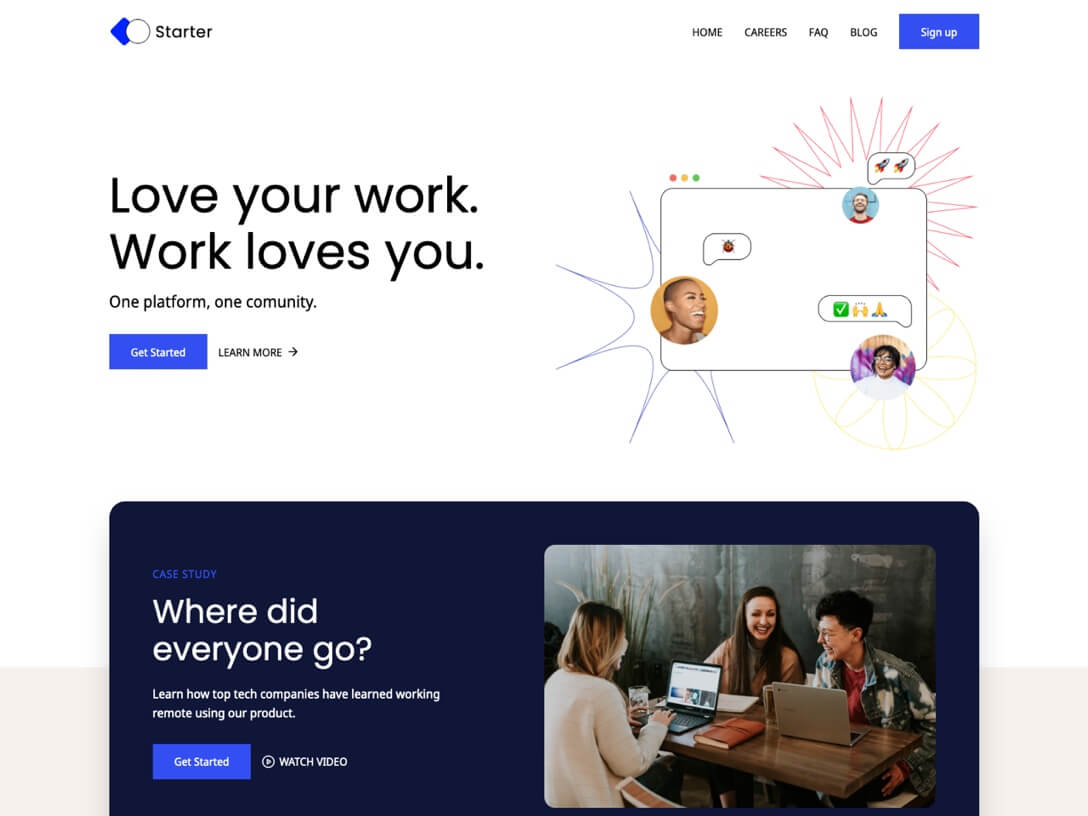
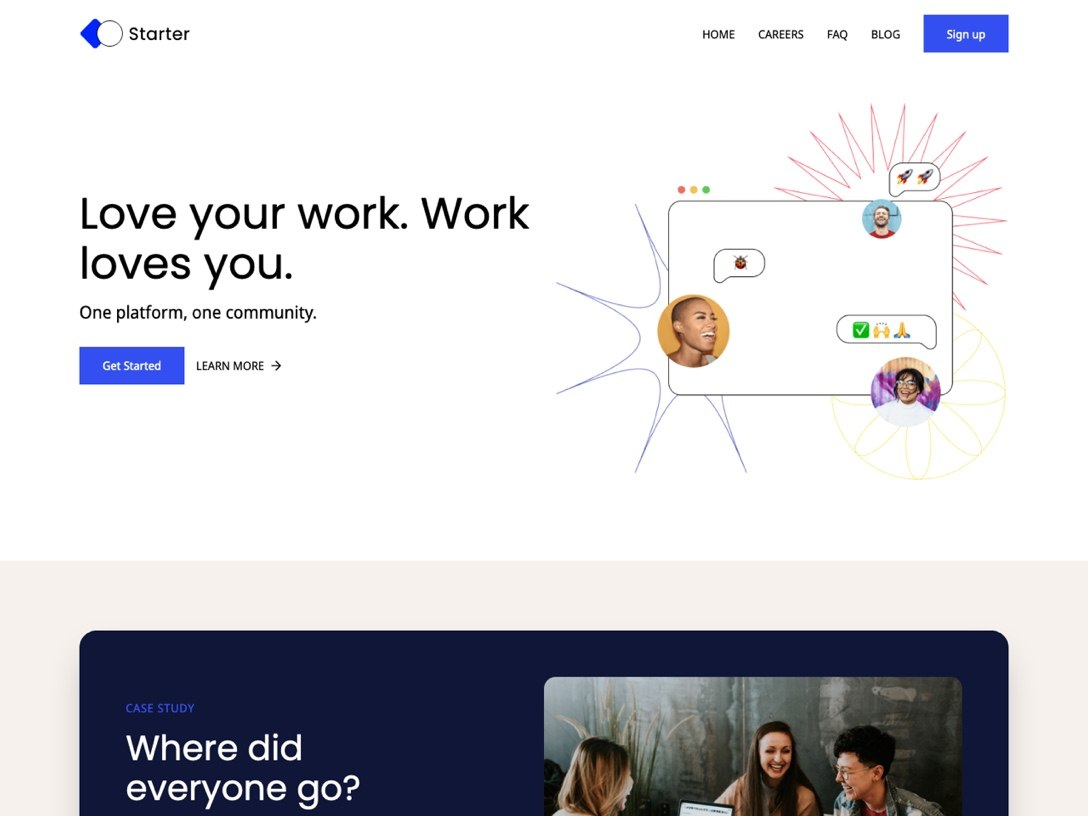
removed cssCustomClass and overlap (#17)
* removed cssCustomClass and overlap
* updated theme screenshots

diff --git a/src/components/sections/MediaGallerySection/index.tsx b/src/components/sections/MediaGallerySection/index.tsx
@@ -35,7 +35,6 @@ type MediaGalleryStyle = {
 type BaseSectionComponentProps = {
     type: string;
     elementId: string;
-    customClass: string;
     colors?: string;
     styles?: BaseSectionStyle & MediaGalleryStyle;
 };
@@ -60,7 +59,6 @@ export type MediaGallerySectionProps = BaseSectionComponentProps & {
 
 export default function MediaGallerySection(props: MediaGallerySectionProps) {
     const cssId = props.elementId || null;
-    const cssCustomClass = props.customClass || null;
     const colors = props.colors || 'colors-a';
     const sectionStyles = props.styles?.self;
     const sectionWidth = sectionStyles?.width || 'wide';
@@ -74,7 +72,6 @@ export default function MediaGallerySection(props: MediaGallerySectionProps) {
                 'sb-component',
                 'sb-component-section',
                 'sb-component-media-gallery-section',
-                cssCustomClass,
                 colors,
                 'flex',
                 'flex-col',

diff --git a/src/components/sections/FeatureHighlightSection/index.tsx b/src/components/sections/FeatureHighlightSection/index.tsx
@@ -9,7 +9,6 @@ import { Action, Badge } from '../../atoms';
 
 export default function FeatureHighlightSection(props) {
     const cssId = props.elementId || null;
-    const cssCustomClass = props.customClass || null;
     const colors = props.colors || 'colors-a';
     const bgSize = props.backgroundSize || 'full';
     const sectionStyles = props.styles?.self || {};
@@ -26,7 +25,6 @@ export default function FeatureHighlightSection(props) {
                 'sb-component',
                 'sb-component-section',
                 'sb-component-feature-highlight-section',
-                cssCustomClass,
                 bgSize === 'inset' ? 'flex': null,
                 bgSize === 'inset' ? mapStyles({ justifyContent: sectionJustifyContent }) : null,
                 sectionStyles.margin

diff --git a/src/components/sections/ContactSection/index.tsx b/src/components/sections/ContactSection/index.tsx
@@ -9,7 +9,6 @@ import FormBlock from '../../molecules/FormBlock';
 
 export default function ContactSection(props) {
     const cssId = props.elementId || null;
-    const cssCustomClass = props.customClass || null;
     const colors = props.colors || 'colors-a';
     const bgSize = props.backgroundSize || 'full';
     const sectionStyles = props.styles?.self || {};
@@ -26,7 +25,6 @@ export default function ContactSection(props) {
                 'sb-component',
                 'sb-component-section',
                 'sb-component-contact-section',
-                cssCustomClass,
                 bgSize === 'inset' ? 'flex': null,
                 bgSize === 'inset' ? mapStyles({ justifyContent: sectionJustifyContent }) : null,
                 sectionStyles.margin

diff --git a/src/components/sections/CtaSection/index.tsx b/src/components/sections/CtaSection/index.tsx
@@ -8,7 +8,6 @@ import Action from '../../atoms/Action';
 
 export default function CtaSection(props) {
     const cssId = props.elementId || null;
-    const cssCustomClass = props.customClass || null;
     const colors = props.colors || 'colors-a';
     const bgSize = props.backgroundSize || 'full';
     const sectionStyles = props.styles?.self || {};
@@ -25,7 +24,6 @@ export default function CtaSection(props) {
                 'sb-component',
                 'sb-component-section',
                 'sb-component-cta-section',
-                cssCustomClass,
                 bgSize === 'inset' ? 'flex': null,
                 bgSize === 'inset' ? mapStyles({ justifyContent: sectionJustifyContent }) : null,
                 sectionStyles.margin

diff --git a/src/components/sections/PostFeedSection/index.tsx b/src/components/sections/PostFeedSection/index.tsx
@@ -11,7 +11,6 @@ import getPageUrlPath from '../../../utils/get-page-url-path';
 
 export default function PostFeedSection(props) {
     const cssId = props.elementId || null;
-    const cssCustomClass = props.customClass || null;
     const colors = props.colors || 'colors-a';
     const sectionStyles = props.styles?.self || {};
     const sectionWidth = sectionStyles.width || 'wide';
@@ -25,7 +24,6 @@ export default function PostFeedSection(props) {
                 'sb-component',
                 'sb-component-section',
                 'sb-component-post-feed-section',
-                cssCustomClass,
                 colors,
                 'flex',
                 'flex-col',

diff --git a/src/components/sections/FeaturedPeopleSection/index.tsx b/src/components/sections/FeaturedPeopleSection/index.tsx
@@ -9,7 +9,6 @@ import ImageBlock from '../../molecules/ImageBlock';
 
 export default function FeaturedPeopleSection(props) {
     const cssId = props.elementId || null;
-    const cssCustomClass = props.customClass || null;
     const colors = props.colors || 'colors-a';
     const styles = props.styles || {};
     const sectionWidth = styles.self?.width || 'wide';
@@ -23,7 +22,6 @@ export default function FeaturedPeopleSection(props) {
                 'sb-component',
                 'sb-component-section',
                 'sb-component-featured-people-section',
-                cssCustomClass,
                 colors,
                 'flex',
                 'flex-col',

diff --git a/src/components/sections/QuoteSection/index.tsx b/src/components/sections/QuoteSection/index.tsx
@@ -7,7 +7,6 @@ import { getDataAttrs } from '../../../utils/get-data-attrs';
 
 export default function QuoteSection(props) {
     const cssId = props.elementId || null;
-    const cssCustomClass = props.customClass || null;
     const colors = props.colors || 'colors-a';
     const sectionStyles = props.styles?.self || {};
     const sectionWidth = sectionStyles.width || 'wide';
@@ -21,7 +20,6 @@ export default function QuoteSection(props) {
                 'sb-component',
                 'sb-component-section',
                 'sb-component-quote-section',
-                cssCustomClass,
                 colors,
                 'flex',
                 'flex-col',

diff --git a/src/components/sections/TextSection/index.tsx b/src/components/sections/TextSection/index.tsx
@@ -7,7 +7,6 @@ import { getDataAttrs } from '../../../utils/get-data-attrs';
 
 export default function TextSection(props) {
     const cssId = props.elementId || null;
-    const cssCustomClass = props.customClass || null;
     const colors = props.colors || 'colors-a';
     const sectionStyles = props.styles?.self || {};
     const sectionWidth = sectionStyles.width || 'wide';
@@ -21,7 +20,6 @@ export default function TextSection(props) {
                 'sb-component',
                 'sb-component-section',
                 'sb-component-text-section',
-                cssCustomClass,
                 colors,
                 'flex',
                 'flex-col',

diff --git a/src/components/sections/TestimonialsSection/index.tsx b/src/components/sections/TestimonialsSection/index.tsx
@@ -8,7 +8,6 @@ import ImageBlock from '../../molecules/ImageBlock';
 
 export default function TestimonialsSection(props) {
     const cssId = props.elementId || null;
-    const cssCustomClass = props.customClass || null;
     const variant = props.variant || 'variant-a';
     const colors = props.colors || 'colors-a';
     const styles = props.styles || {};
@@ -24,7 +23,6 @@ export default function TestimonialsSection(props) {
                 'sb-component',
                 'sb-component-section',
                 'sb-component-testimonials-section',
-                cssCustomClass,
                 colors,
                 'flex',
                 'flex-col',

diff --git a/src/components/sections/FeaturedItemsSection/index.tsx b/src/components/sections/FeaturedItemsSection/index.tsx
@@ -8,7 +8,6 @@ import FeaturedItem from './FeaturedItem';
 
 export default function FeaturedItemsSection(props) {
     const cssId = props.elementId || null;
-    const cssCustomClass = props.customClass || null;
     const colors = props.colors || 'colors-a';
     const styles = props.styles || {};
     const sectionWidth = styles.self?.width || 'wide';
@@ -23,7 +22,6 @@ export default function FeaturedItemsSection(props) {
                 'sb-component',
                 'sb-component-section',
                 'sb-component-featured-items-section',
-                cssCustomClass,
                 colors,
                 'flex',
                 'flex-col',

diff --git a/src/components/sections/HeroSection/index.tsx b/src/components/sections/HeroSection/index.tsx
@@ -9,7 +9,6 @@ import { Action, Badge } from '../../atoms';
 
 export default function HeroSection(props) {
     const cssId = props.elementId || null;
-    const cssCustomClass = props.customClass || null;
     const colors = props.colors || 'colors-a';
     const sectionStyles = props.styles?.self || {};
     const sectionWidth = sectionStyles.width || 'wide';
@@ -25,7 +24,6 @@ export default function HeroSection(props) {
                 'sb-component',
                 'sb-component-section',
                 'sb-component-hero-section',
-                cssCustomClass,
                 colors,
                 'flex',
                 'flex-col',

diff --git a/src/components/sections/FaqSection/index.tsx b/src/components/sections/FaqSection/index.tsx
@@ -10,7 +10,6 @@ import ChevronIcon from '../../svgs/chevron-right';
 
 export default function FaqSection(props) {
     const cssId = props.elementId || null;
-    const cssCustomClass = props.customClass || null;
     const colors = props.colors || 'colors-a';
     const styles = props.styles || {};
     const sectionWidth = styles.self?.width || 'wide';
@@ -26,7 +25,6 @@ export default function FaqSection(props) {
                 'sb-component',
                 'sb-component-section',
                 'sb-component-faq-section',
-                cssCustomClass,
                 colors,
                 'flex',
                 'flex-col',
